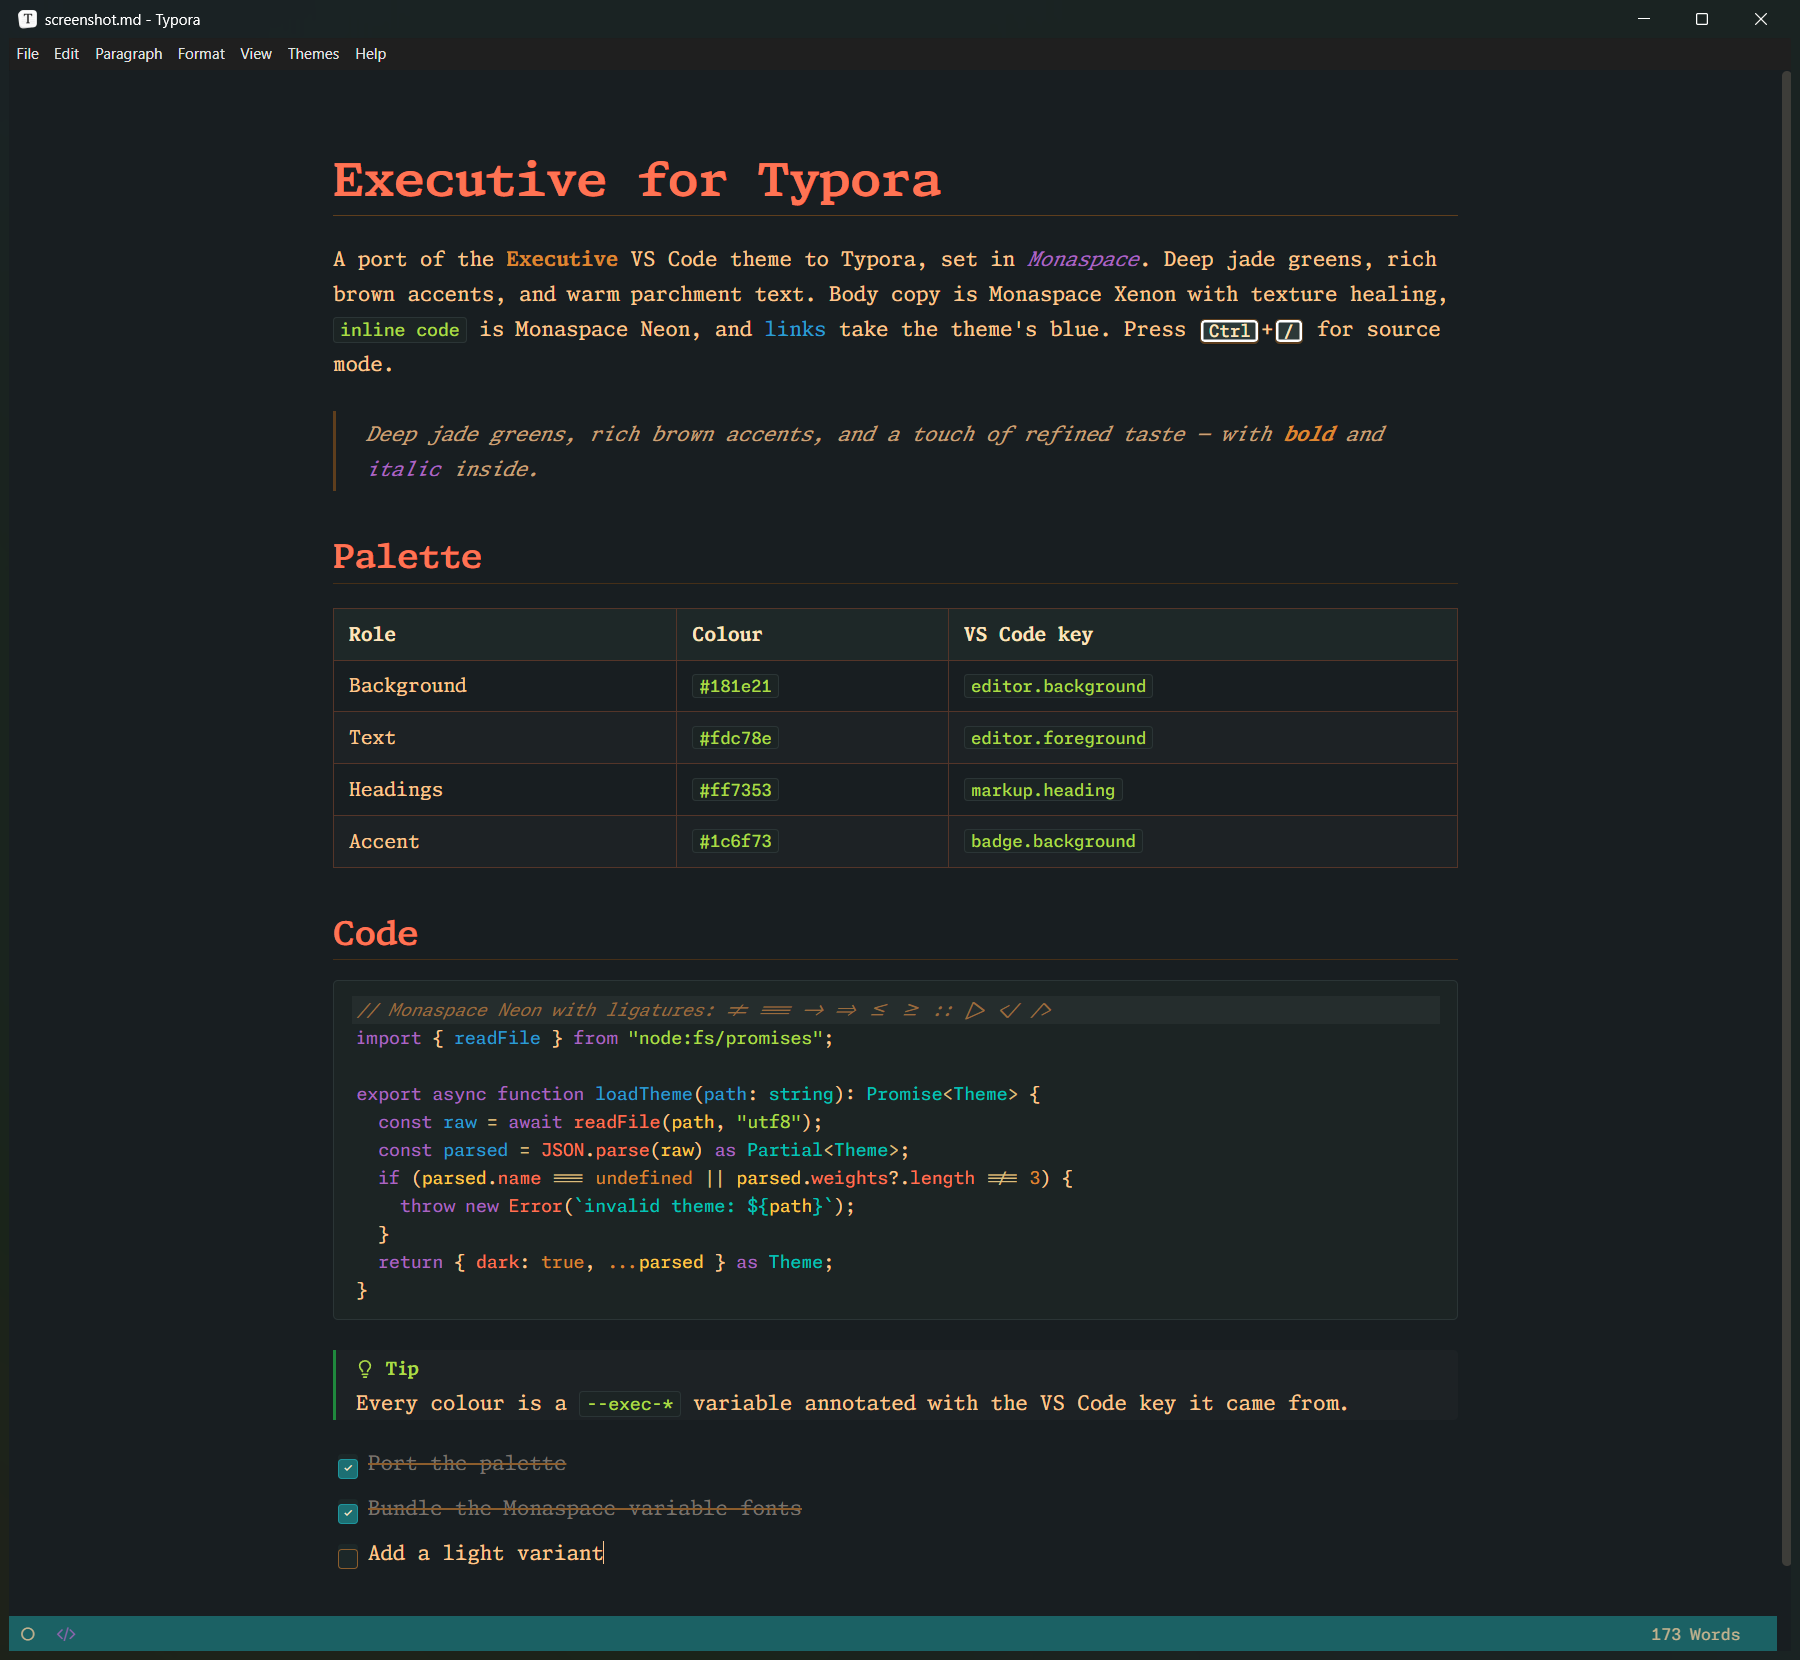
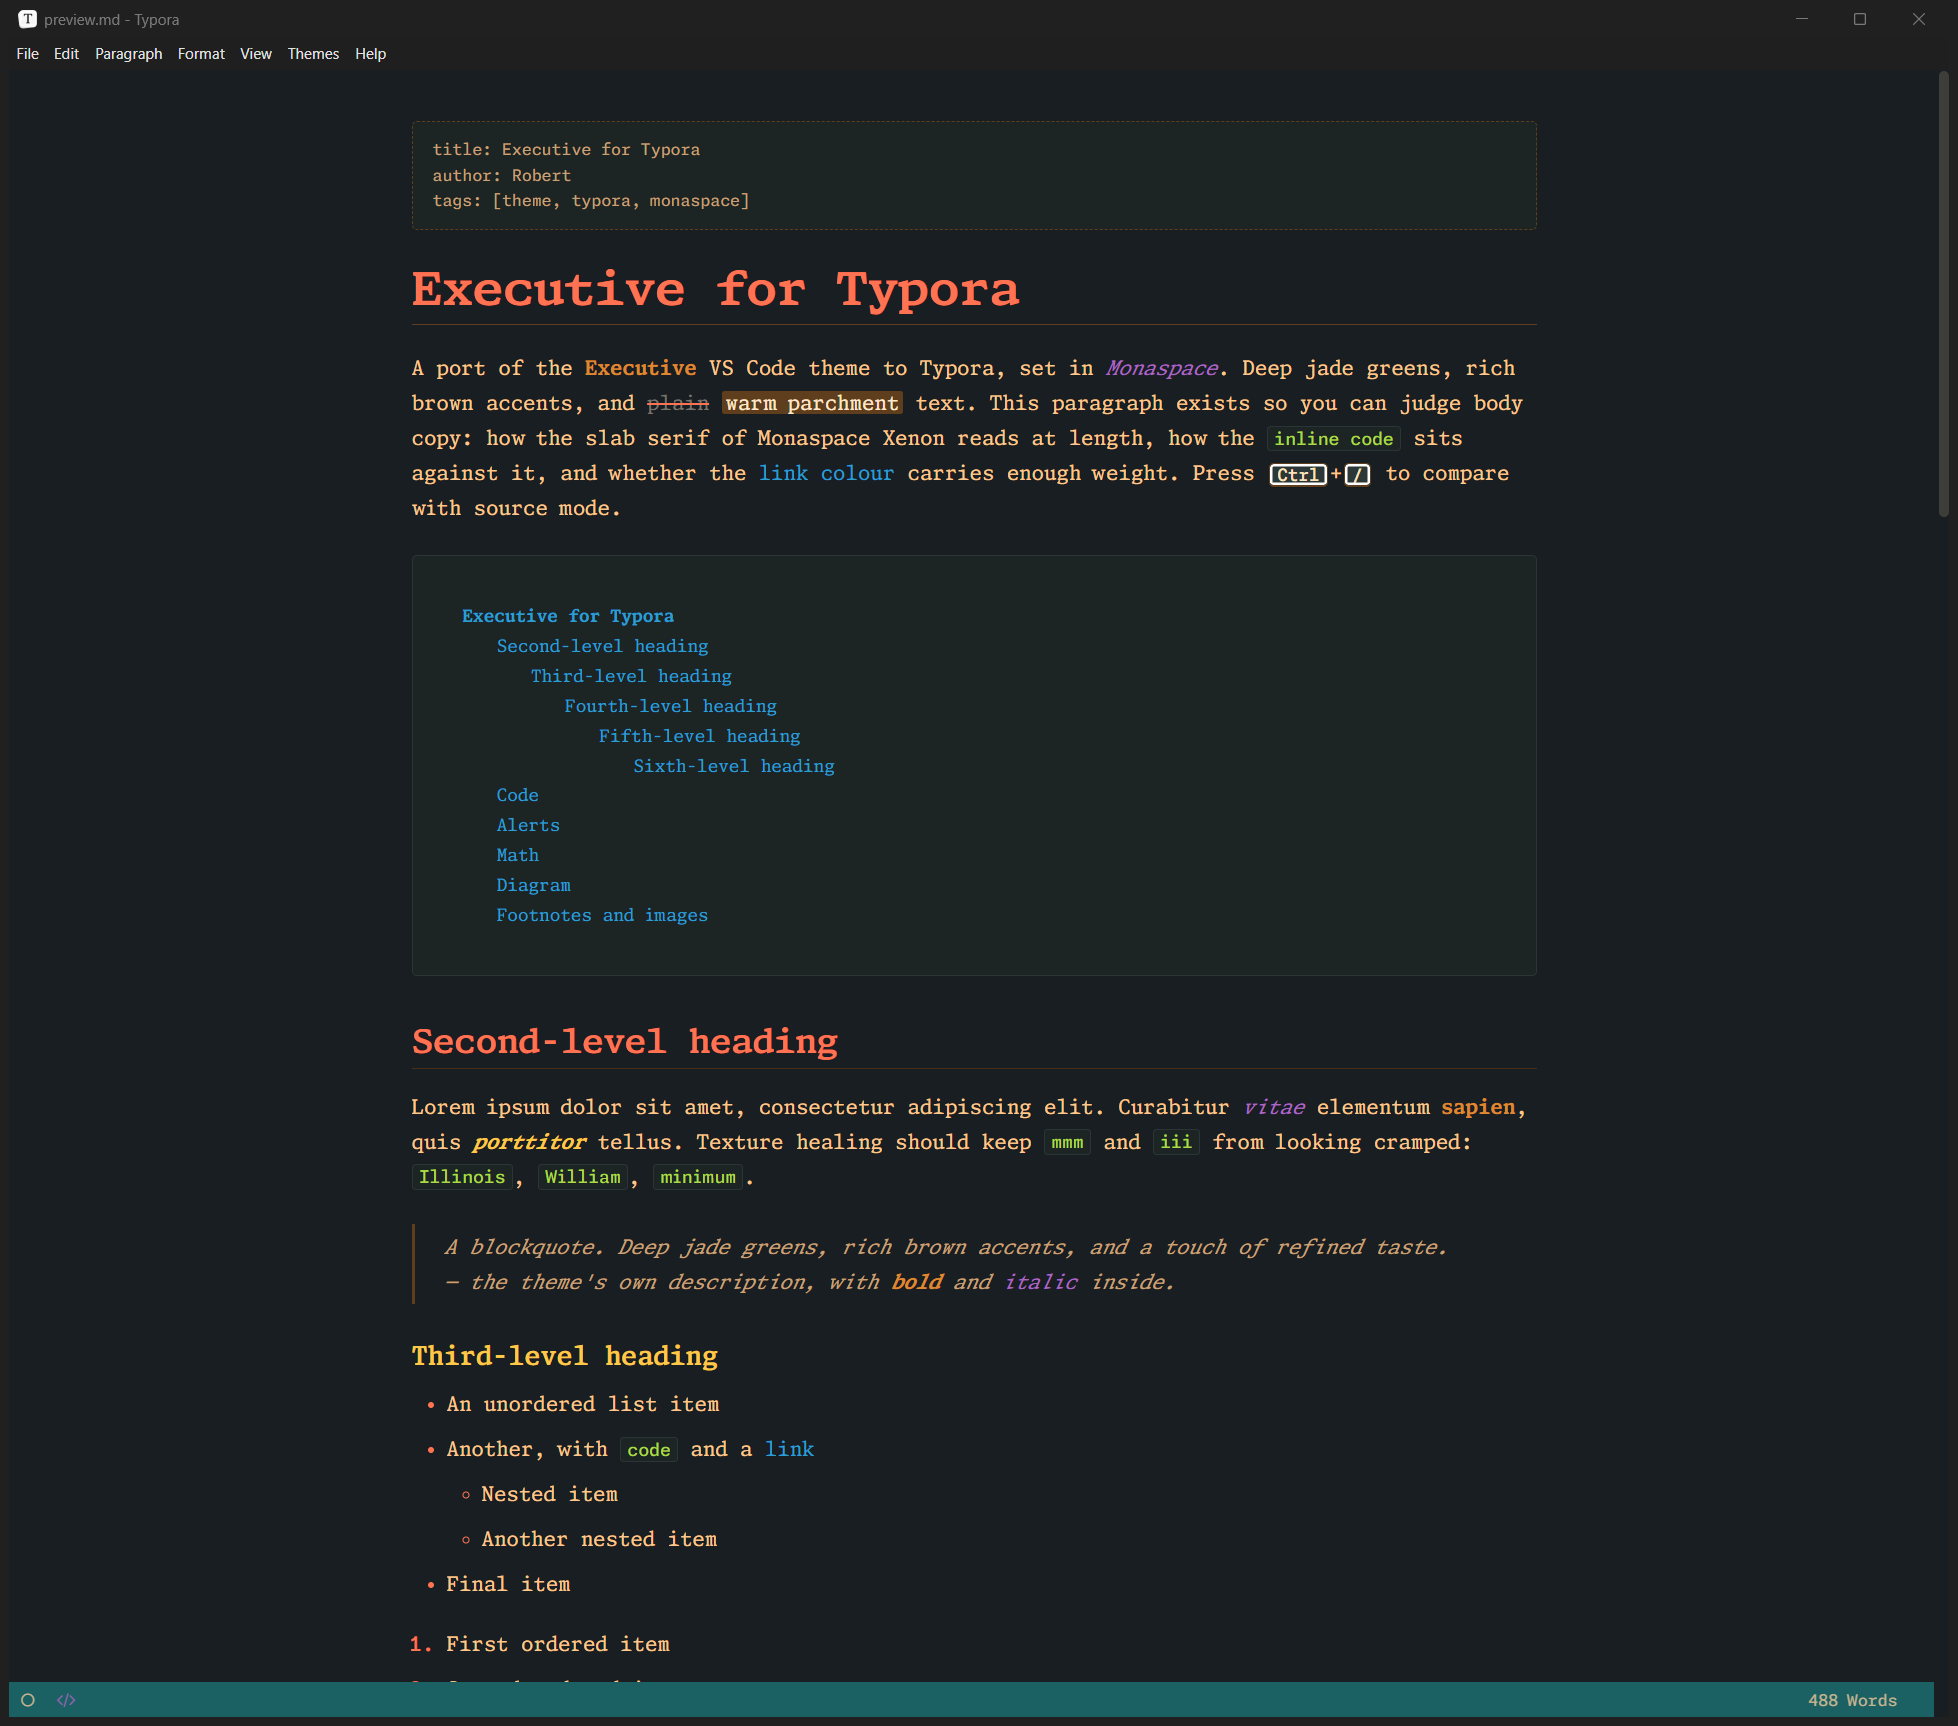
Replace README screenshot with a capture of preview.md

diff --git a/README.md b/README.md
@@ -8,7 +8,7 @@ Deep jade greens, rich brown accents, warm parchment text. Every colour in the
 stylesheet is lifted from the VS Code theme's JSON, and each variable in
 `executive.css` is annotated with the VS Code key it came from.
 
-![Executive for Typora: headings, prose, a table and a TypeScript code block rendered in Monaspace](docs/screenshot.png)
+![Executive for Typora: preview.md open in Typora, showing front matter, headings, prose with inline styles, a table of contents, a blockquote and lists in Monaspace](docs/screenshot.png)
 
 ## Install
 
@@ -114,8 +114,8 @@ executive/
     LICENSE-Monaspace-OFL.txt
 preview.md                    a document that exercises every styled element
 docs/
-  screenshot.md               the source of the README screenshot
-  screenshot.png
+  screenshot.png              preview.md captured in Typora on Windows
+  screenshot.md               a compact alternative source document
 ```
 
 ## Licence
